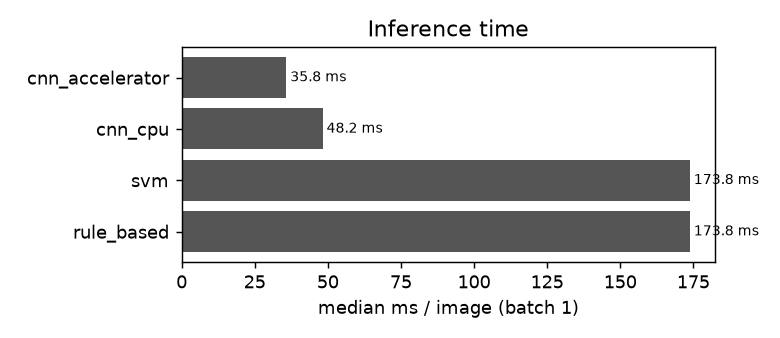
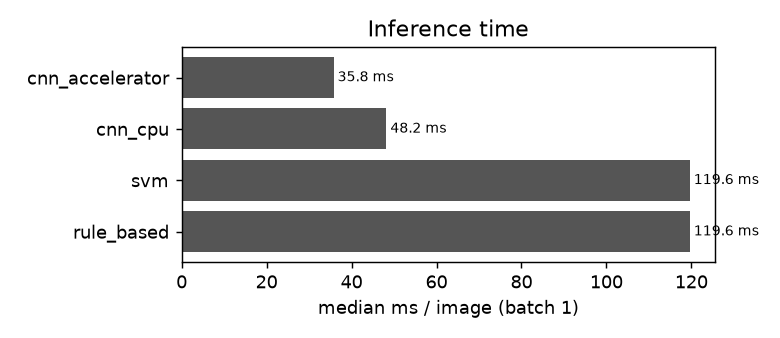
T14: verify_all.py full verification (fresh-render report check), all checks pass

diff --git a/scripts/verify_all.py b/scripts/verify_all.py
@@ -52,6 +52,11 @@ def check_artefacts() -> tuple[bool, str]:
 
 def _resolve(src: dict) -> float:
     f = ROOT / src["file"]
+    if "config" in src:
+        v = load_config()
+        for k in src["config"]:
+            v = v[k]
+        return float(v)
     if "keys" in src:
         v = json.loads(f.read_text())
         for k in src["keys"]:
@@ -67,11 +72,6 @@ def _resolve(src: dict) -> float:
         for k, val in src["count_where"].items():
             df = df[df[k] == val]
         return float(len(df))
-    if "config" in src:
-        v = load_config()
-        for k in src["config"]:
-            v = v[k]
-        return float(v)
     raise ValueError(src)
 
 
@@ -80,6 +80,14 @@ def check_report() -> tuple[bool, str]:
 
     rep = (ROOT / "results/REPORT.md").read_text()
     recs = json.loads((ROOT / "results/report_numbers.json").read_text())
+    sys.path.insert(0, str(ROOT / "scripts"))
+    from make_report import build  # noqa: PLC0415
+
+    fresh, _ = build()
+    if fresh != rep:
+        diff = next(i for i, (a, b) in enumerate(zip(fresh.splitlines(), rep.splitlines(), strict=False)) if a != b) \
+            if any(a != b for a, b in zip(fresh.splitlines(), rep.splitlines(), strict=False)) else None
+        return False, f"REPORT.md differs from a fresh render of the results files (first differing line {diff})"
     stale = []
     for r in recs:
         v = _resolve(r["source"])
@@ -92,7 +100,7 @@ def check_report() -> tuple[bool, str]:
     unknown = sorted({t for t in NUM.findall(body)
                       if (len(t.strip("-%")) > 1 or "." in t) and t not in known and t.rstrip("%") not in known})
     ok = not stale and not unknown
-    msg = f"{len(recs)} numbers re-read from sources"
+    msg = f"identical to a fresh render; {len(recs)} numbers re-read from sources"
     if stale:
         msg += f"; {len(stale)} stale e.g. {stale[:2]}"
     if unknown:

diff --git a/scripts/make_report.py b/scripts/make_report.py
@@ -259,7 +259,10 @@ def limitations_section() -> list[str]:
         "- On-device deployment (the Stage 1 pipeline and MobileNetV2 both run on CPU).", ""]
 
 
-def main() -> int:
+def build() -> tuple[str, list[dict]]:
+    """Render the report from the current results files; returns (markdown, number records)."""
+    global R
+    R = Recorder()
     lines = ["# Image Processing + CNN for Disease Detection in Turmeric and Black Gram", "",
              "> Generated by `scripts/make_report.py` from files in `results/` and `data/processed/`. "
              "No number in this report is typed by hand; `results/report_numbers.json` lists the source of each.", "",
@@ -268,10 +271,14 @@ def main() -> int:
              "CNN-based approach?", ""]
     lines += dataset_section() + methods_section() + stage1_checks() + results_section()
     lines += comparison_section() + limitations_section()
-    report = "\n".join(lines)
+    return "\n".join(lines), R.records
+
+
+def main() -> int:
+    report, records = build()
     (RES / "REPORT.md").write_text(report)
-    (RES / "report_numbers.json").write_text(json.dumps(R.records, indent=1))
-    print(f"wrote results/REPORT.md ({len(report.splitlines())} lines, {len(R.records)} recorded numbers)")
+    (RES / "report_numbers.json").write_text(json.dumps(records, indent=1))
+    print(f"wrote results/REPORT.md ({len(report.splitlines())} lines, {len(records)} recorded numbers)")
     return 0
 
 

diff --git a/PROGRESS.md b/PROGRESS.md
@@ -18,11 +18,18 @@
 | T11 | Demo app | DONE | Evidence log T11 |
 | T12 | Tests, lint, quality | DONE | Evidence log T12 |
 | T13 | Documentation + report | DONE | Evidence log T13 |
-| T14 | Final verification | TODO | |
+| T14 | Final verification | DONE | Evidence log T14 |
 
 ## Evidence log
 
 (newest first)
+
+### 2026-10-25 T14 Final verification
+- `python scripts/verify_all.py` (full) -> exit 0:
+  `lint (ruff) PASS`; `all tests incl. pipeline + app smoke PASS 47 passed`; `split leakage PASS 0 clusters span splits; 1606 images`; `artefacts PASS all present`; `REPORT.md numbers vs sources PASS identical to a fresh render; 498 numbers re-read from sources`; `comparison.md numbers in comparison.csv PASS`; `OVERALL: PASS`.
+- `verify_all.py --quick` -> PASS (lint, unit tests without app/pipeline, leakage).
+- Checker self-test: editing one number in REPORT.md (1548 -> 1549) and, separately, swapping a number for another valid one (0.935 -> 0.991) both make the report check FAIL; regenerating restores PASS. The second case led to the fresh-render comparison being added.
+- Re-ran `make data splits features train-ip compare report`: splits.csv byte-identical (md5 919846308c8edef2ad552c38fe36c8c9), IP metrics identical; only wall-clock timings changed (Stage 1 + decision median 173.8 -> 119.6 ms/image; timing is load-dependent). Comparison and report regenerated from the new timings. The CNN was not retrained in this re-run (MPS is not bit-deterministic; models/cnn_best.pt from T08 is used).
 
 ### 2026-10-25 T13 Documentation + report
 - `make report` -> `wrote results/REPORT.md (212 lines, 498 recorded numbers)`; deleting REPORT.md + report_numbers.json and re-running `make report` gives a byte-identical file (`cmp` -> identical).
@@ -143,4 +150,4 @@
 
 ## NEXT
 
-T14: run scripts/verify_all.py (full) and fix whatever fails.
+All tasks T00-T14 DONE and verify_all.py exits 0. Possible follow-ups (out of current scope): disease-type classification, cross-region test data, second CNN seed / EfficientNet-B0 run.

diff --git a/results/REPORT.md b/results/REPORT.md
@@ -145,7 +145,7 @@ SVM hyperparameters (grouped CV on TRAIN): C = 30, gamma = 0.01; CV macro-F1 0.9
 4. **Turmeric:** the SVM on hand-designed features (macro-F1 0.963, healthy recall 1.000) is lower than the CNN (1.000, healthy recall 1.000); the 95% bootstrap CIs overlap.
 5. **By original class**, the largest CNN advantage over the SVM is on *black gram healthy* (CNN 0.938 vs SVM 0.844, n = 32); the SVM fares best relative to the CNN on *black gram powdery mildew* (SVM 0.971 vs CNN 0.941, n = 34).
 6. **Rule-based score vs SVM:** the transparent four-measurement rule reaches macro-F1 0.839 (healthy recall 0.705) against 0.935 (healthy recall 0.918) for the SVM, which combines the full Stage 1 feature vector with a learned boundary. The four transparent measurements alone over-call disease on healthy leaves; the colour and texture statistics fix most of that.
-7. **Interpretability and cost:** the image-processing route returns the affected-area %, lesion count and the segmented leaf / abnormal-region masks that explain each decision, at 173.8 ms per image on CPU versus 48.2 ms (CPU) / 35.8 ms (GPU) for the CNN. SVM and CNN agree on 0.941 of TEST images and are then right 0.996 of the time; the 14 disagreements are shown with both kinds of evidence in `figures/disagreements_gallery.png`.
+7. **Interpretability and cost:** the image-processing route returns the affected-area %, lesion count and the segmented leaf / abnormal-region masks that explain each decision, at 119.6 ms per image on CPU versus 48.2 ms (CPU) / 35.8 ms (GPU) for the CNN. SVM and CNN agree on 0.941 of TEST images and are then right 0.996 of the time; the 14 disagreements are shown with both kinds of evidence in `figures/disagreements_gallery.png`.
 8. **Crop identification:** the 4-class CNN also names the crop correctly on 1.000 of TEST images.
 
 ![bars](figures/comparison_bars.png)

diff --git a/results/comparison.md b/results/comparison.md
@@ -26,7 +26,7 @@ All three methods are scored on the identical leakage-free TEST split (n = 239; 
 4. **Turmeric:** the SVM on hand-designed features (macro-F1 0.963, healthy recall 1.000) is lower than the CNN (1.000, healthy recall 1.000); the 95% bootstrap CIs overlap.
 5. **By original class**, the largest CNN advantage over the SVM is on *black gram healthy* (CNN 0.938 vs SVM 0.844, n = 32); the SVM fares best relative to the CNN on *black gram powdery mildew* (SVM 0.971 vs CNN 0.941, n = 34).
 6. **Rule-based score vs SVM:** the transparent four-measurement rule reaches macro-F1 0.839 (healthy recall 0.705) against 0.935 (healthy recall 0.918) for the SVM, which combines the full Stage 1 feature vector with a learned boundary. The four transparent measurements alone over-call disease on healthy leaves; the colour and texture statistics fix most of that.
-7. **Interpretability and cost:** the image-processing route returns the affected-area %, lesion count and the segmented leaf / abnormal-region masks that explain each decision, at 173.8 ms per image on CPU versus 48.2 ms (CPU) / 35.8 ms (GPU) for the CNN. SVM and CNN agree on 0.941 of TEST images and are then right 0.996 of the time; the 14 disagreements are shown with both kinds of evidence in `figures/disagreements_gallery.png`.
+7. **Interpretability and cost:** the image-processing route returns the affected-area %, lesion count and the segmented leaf / abnormal-region masks that explain each decision, at 119.6 ms per image on CPU versus 48.2 ms (CPU) / 35.8 ms (GPU) for the CNN. SVM and CNN agree on 0.941 of TEST images and are then right 0.996 of the time; the 14 disagreements are shown with both kinds of evidence in `figures/disagreements_gallery.png`.
 8. **Crop identification:** the 4-class CNN also names the crop correctly on 1.000 of TEST images.
 
 ## Leakage ablation
